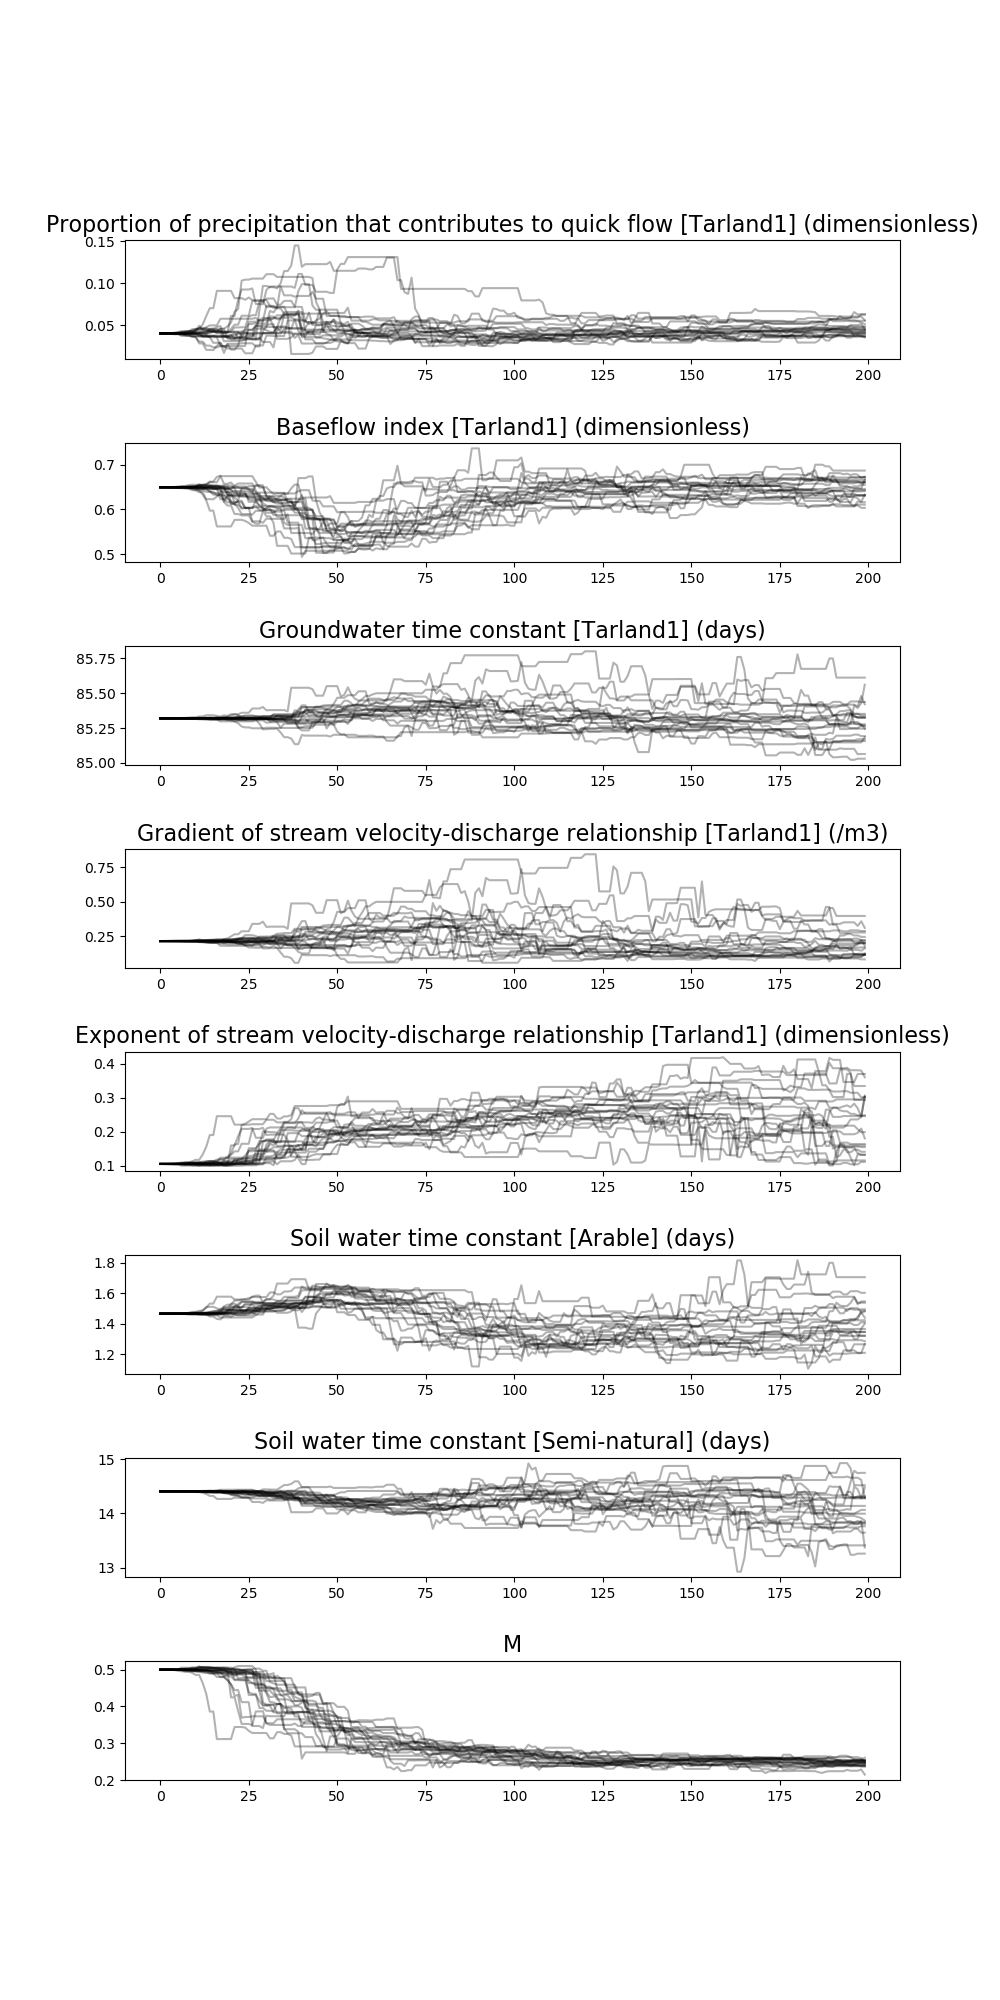
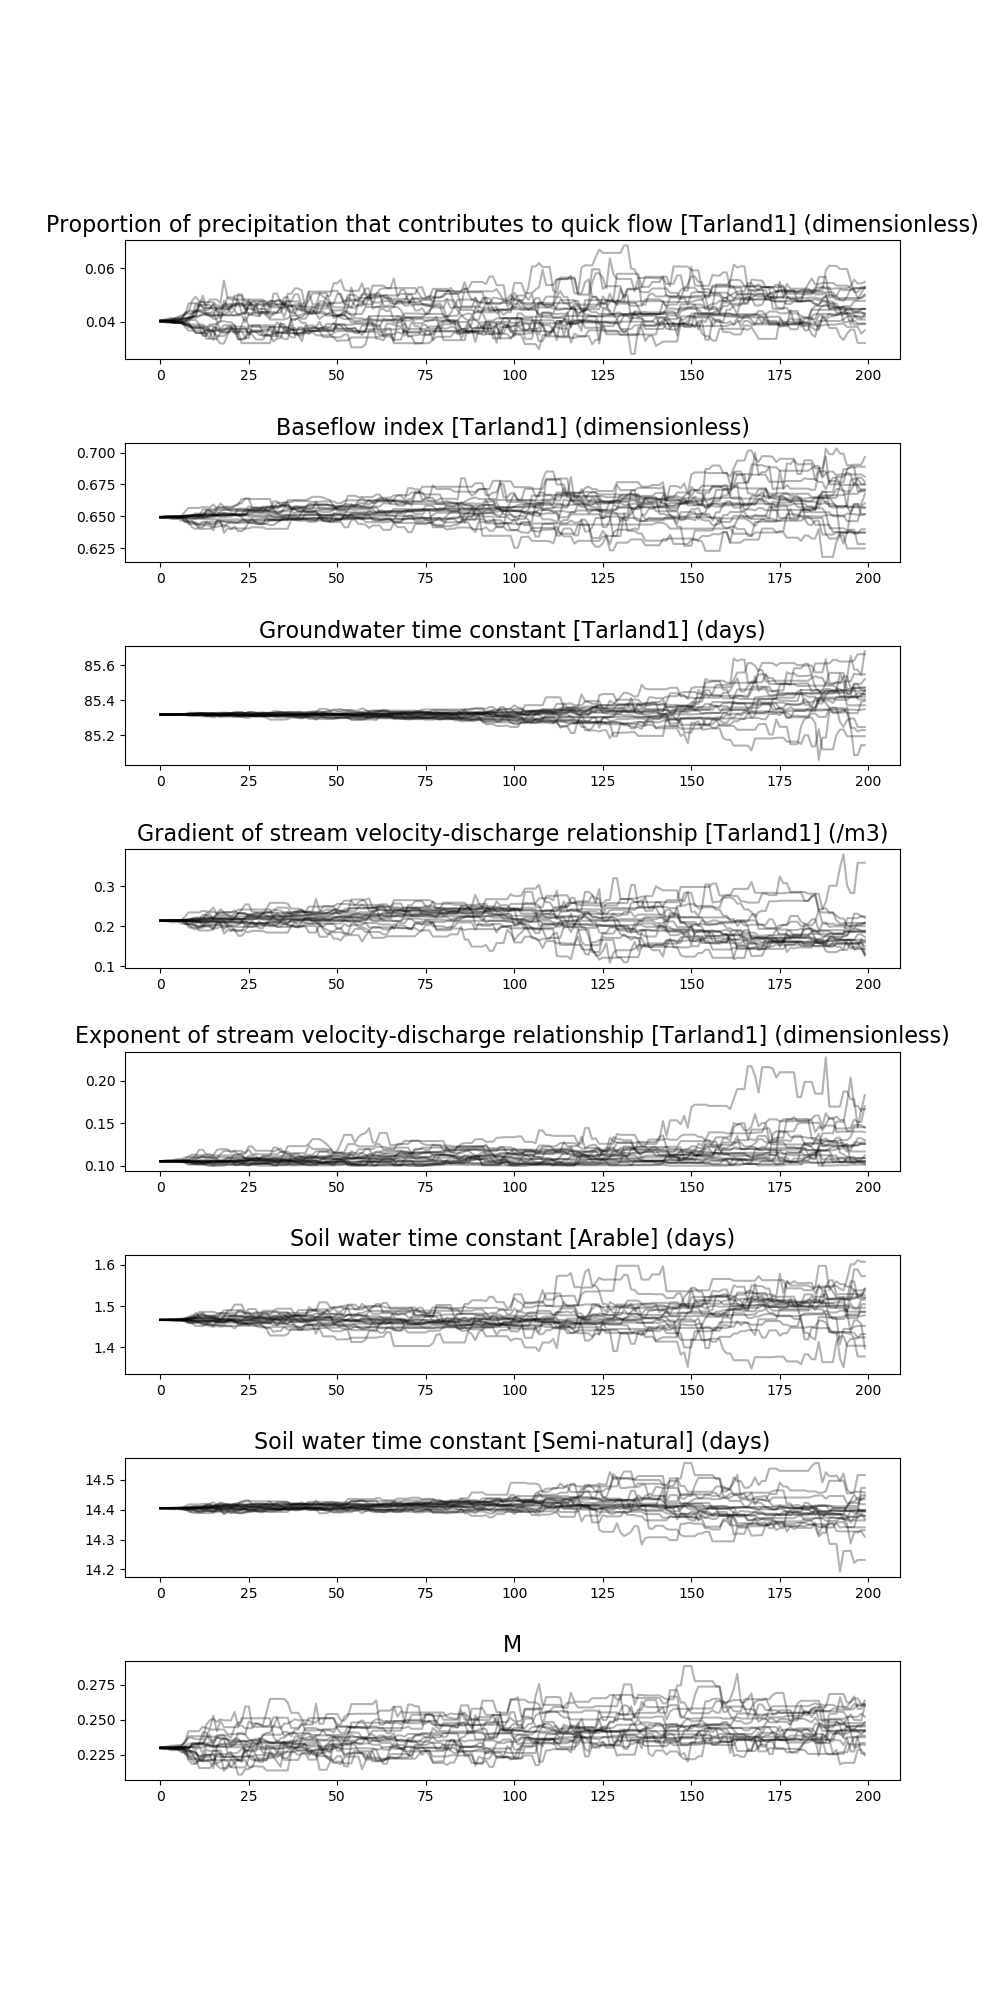
Fikst bug

diff --git a/PythonWrapper/inca_calibration.py b/PythonWrapper/inca_calibration.py
@@ -1,5 +1,4 @@
 
-import matplotlib.pyplot as plt, seaborn as sn, emcee, corner, mpld3
 from scipy import optimize
 import numpy as np
 import numdifftools as nd
@@ -22,22 +21,22 @@ def check_min_max(params, min, max):
 def run_optimization(dataset, min, max, initial_guess, calibration, objective, minimize=True) :
 	objective_fun = objective[0]
 
-	if skiptimesteps >= dataset.get_parameter_uint('Timesteps', []) :
-		raise ValueError('We were told to skip more timesteps in the evaluation of the objective than the amount of timesteps we run the model for.')
+	#if skiptimesteps >= dataset.get_parameter_uint('Timesteps', []) :
+	#	raise ValueError('We were told to skip more timesteps in the evaluation of the objective than the amount of timesteps we run the model for.')
 	
 	if minimize :
 		def eval(params) :
 			# NOTE: This version of the Nelder-Mead algorithm does not allow for bounds, so we have to hack them in
 			if not check_min_max(params, min, max):
 				return np.inf
-			return objective_fun(params, dataset, calibration, objective, obsseries) 
+			return objective_fun(params, dataset, calibration, objective) 
 		
 		return optimize.fmin(eval, initial_guess, maxfun=10000)
 	else :
 		def eval(params) :
 			if not check_min_max(params, min, max):
 				return np.inf
-			return -objective_fun(params, dataset, calibration, objective, obsseries) 
+			return -objective_fun(params, dataset, calibration, objective) 
 		
 		return optimize.fmin(eval, initial_guess, maxfun=10000)
 
@@ -71,9 +70,36 @@ def constrain_min_max(dataset, calibration, minvec, maxvec) :
 		if minvec[idx] < min : minvec[idx] = min
 		if maxvec[idx] > max : maxvec[idx] = max
 
-		
-		
-		
+def log_likelyhood(params, dataset, calibration, objective):	
+	# NOTE: If we use a parallellized optimizer we need to make a copy of the dataset to not have several threads overwrite each other.
+	# (in that case, only use the copy when setting parameter values, running the model, and extracting results below)
+	datasetcopy = dataset.copy()
+	
+	set_values(datasetcopy, params, calibration)
+	
+	datasetcopy.run_model()
+	
+	fn, simname, simindexes, obsname, obsindexes, skiptimesteps = objective
+    
+	sim = datasetcopy.get_result_series(simname, simindexes)
+	obs = datasetcopy.get_input_series(obsname, obsindexes, alignwithresults=True)
+	
+	sim2 = sim[skiptimesteps:]
+	obs2 = obs[skiptimesteps:]
+	
+	M = params[len(calibration)]
+	sigma_e = M*sim2
+	
+	likes = norm(sim2, sigma_e).logpdf(obs2)
+	
+	like = np.nansum(likes)
+    
+	# NOTE: If we made a copy of the dataset we need to delete it so that we don't get a huge memory leak
+	datasetcopy.delete()
+	
+	#print ('single evaluation. result: %f' % like)
+	
+	return like	
 		
 		
 	

diff --git a/PythonWrapper/simplyp_optimize.py b/PythonWrapper/simplyp_optimize.py
@@ -1,0 +1,58 @@
+
+import inca
+from inca_calibration import *
+import numpy as np
+	
+
+inca.initialize('simplyp.dll')
+
+dataset = inca.DataSet.setup_from_parameter_and_input_files('../Applications/SimplyP/tarlandparameters.dat', '../Applications/SimplyP/tarlandinputs.dat')
+
+#NOTE: The 'calibration' structure is a list of (indexed) parameters that we want to calibrate
+calibration = [
+	('Proportion of precipitation that contributes to quick flow', ['Tarland1']),
+	('Baseflow index',                                             ['Tarland1']),
+	('Groundwater time constant',                                  ['Tarland1']),
+	('Gradient of stream velocity-discharge relationship',         ['Tarland1']),
+	('Exponent of stream velocity-discharge relationship',         ['Tarland1']),
+	('Soil water time constant',                                   ['Arable']),
+	('Soil water time constant',                                   ['Semi-natural']),
+	]
+
+
+initial_guess = default_initial_guess(dataset, calibration)    #NOTE: This reads the initial guess that was provided by the parameter file.
+initial_guess.append(0.5)
+
+min = [0.25 * x for x in initial_guess]
+max = [4.0 * x for x in initial_guess]
+
+constrain_min_max(dataset, calibration, min, max) #NOTE: Constrain to the min and max values recommended by the model in case we made our bounds too wide.
+
+skiptimesteps = 50   # Skip these many of the first timesteps in the objective evaluation
+
+objective = (log_likelyhood, 'Daily mean reach flow', ['Tarland1'], 'observed Q mm/d', [], skiptimesteps)
+
+
+param_est = run_optimization(dataset, min, max, initial_guess, calibration, objective, minimize=False)
+
+print('\n')
+for idx, cal in enumerate(calibration) :
+	name, indexes = cal
+	print('Estimated %-60s %-20s %5.2f (range [%5.2f, %5.2f])' %  (name, ', '.join(indexes), param_est[idx], min[idx], max[idx]))
+if len(param_est) > len(calibration) :
+	print('M: %f' % param_est[len(calibration)])
+
+# Computing the Hessian at the optimal point:
+hess = compute_hessian(dataset, param_est, calibration, objective)
+print('\nHessian matrix at optimal parameters:')
+print_matrix(hess)
+inv_hess = np.linalg.inv(hess)
+print('\nInverse Hessian:')
+print_matrix(inv_hess)
+
+# NOTE: Write the optimal values back to the dataset and then generate a new parameter file that has these values.
+set_values(dataset, param_est, calibration)
+dataset.write_parameters_to_file('optimal_parameters.dat')
+
+
+
